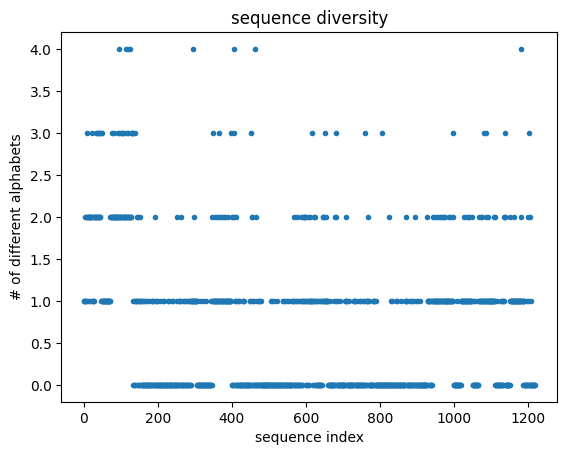
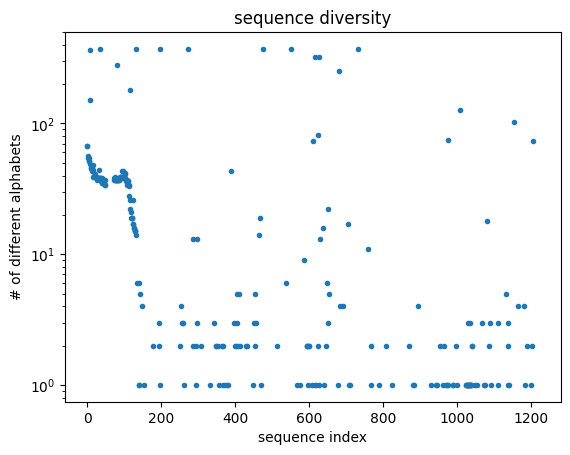
add runtime typechecker

diff --git a/spherical/utils.py b/spherical/utils.py
@@ -1,18 +1,19 @@
 import re
 import csv
 
+from beartype import beartype
 from Bio import SeqIO
 from Bio.PDB.MMCIFParser import MMCIFParser
-from Bio.PDB import Residue
+from spherical._types import Atom, Residue, Residues, Structure, Seq
 import numpy as np
 
 
-def read_fasta(fname: str):
+def read_fasta(fname: str):  # just a wrapper
     seqs = SeqIO.parse(fname, "fasta")
     return seqs
 
 
-def read_gbk(fname: str):
+def read_gbk(fname: str):  # just a wrapper
     seqs = SeqIO.parse(fname, "genbank")
     return seqs
 
@@ -39,7 +40,7 @@ def write_fasta_gbk_protein(fname: str, replace_with: str = "X"):
             f.write(">" + id + "\n" + protein + "\n")
 
 
-def remove_lowercase(text):
+def remove_lowercase(text: str) -> str:
     """Removes lowercase letters from a string.
 
     Args:
@@ -51,7 +52,7 @@ def remove_lowercase(text):
     return re.sub(r"[a-z]", "", text)
 
 
-def where_uppercase(seq: str):
+def where_uppercase(seq: Seq) -> list[int]:
     """WARNING: ChimeraX supports 1-based indexing."""
     positions = []
     for i, letter in enumerate(seq):
@@ -60,7 +61,7 @@ def where_uppercase(seq: str):
     return positions
 
 
-def where_lowercase(seq: str):
+def where_lowercase(seq: Seq) -> list[int]:
     """WARNING: ChimeraX supports 1-based indexing."""
     positions = []
     for i, letter in enumerate(seq):
@@ -69,23 +70,35 @@ def where_lowercase(seq: str):
     return positions
 
 
+def convert_indexing(indices: list[int], _from: int, _to: int) -> list[int]:
+    offset = _to - _from
+    indices = [i + offset for i in indices]
+    return indices
+
+
 def save_csv(result: list, path: str):
     with open(path, "w") as f:
         writer = csv.writer(f)
         writer.writerow(result)
 
 
-def read_cif(path: str = "data/alphafold/fold_2025_02_10_08_03_model_0.cif"):
+@beartype
+def read_cif(
+    path: str = "data/alphafold/fold_2025_02_10_08_03_model_0.cif",
+    structure_id: str = "tmp",
+) -> Structure:
     # FastMMCIFParser does not parses residues.
-    st = MMCIFParser().get_structure("tmp", path)
+    st = MMCIFParser().get_structure(structure_id, path)
     return st
 
 
-def get_first_atom(res: Residue):
+@beartype
+def get_first_atom(res: Residue) -> Atom:
     atom = next(res.get_atoms())  # `get_atoms` method returns a generator
     return atom
 
 
+@beartype
 def rr_distance(r1: Residue, r2: Residue):
     """Compute residue-residue distance. \n
 
@@ -96,7 +109,8 @@ def rr_distance(r1: Residue, r2: Residue):
     return np.linalg.norm(a1 - a2)  # Euclidean distance (3D)
 
 
-def rs_distance(r: Residue, rr, pp):
+@beartype
+def rs_distance(r: Residue, rr: Residues, pp: list[int]):
     """Compute minimum `rr_distance` for a residue and a structure."""
     distance = np.inf
     for p in pp:
@@ -105,7 +119,8 @@ def rs_distance(r: Residue, rr, pp):
     return distance
 
 
-def ss_distance(rr: list, pp1: list[int], pp2: list[int]) -> float:
+@beartype
+def ss_distance(rr: Residues, pp1: list[int], pp2: list[int]):
     """Compute minimum `rr_distance` between two structures."""
     distance = np.inf
     for p1 in pp1:
@@ -116,7 +131,10 @@ def ss_distance(rr: list, pp1: list[int], pp2: list[int]) -> float:
 
 
 # TODO performance optimization
-def _merge_if_close(rr, epitopes, thr):
+@beartype
+def _merge_if_close(
+    rr: Residues, epitopes: list[list[int]], thr: float
+) -> list[list[int]]:
     merged_epitopes = []
     while epitopes:
         pp1 = epitopes.pop(0)
@@ -132,19 +150,21 @@ def _merge_if_close(rr, epitopes, thr):
     return merged_epitopes
 
 
-def group_residues_by_distance(epi_seq: str, path_cif: str, thr: float = 4.0):
+# TODO refactor
+@beartype
+def group_residues_by_distance(
+    rr: Residues, epi_seq: Seq, thr: float = 4.0
+) -> list[list[int]]:
     positions = where_uppercase(epi_seq)
-    st = read_cif(path_cif)
-    rr = list(st.get_residues())
     epitopes = [[p] for p in positions]
     return _merge_if_close(rr, epitopes, thr)
 
 
+# TODO refactor
+@beartype
 def add_nearby_ones_to_groups(
-    path_cif: str, epi_seq: str, gg: list[list[int]], thr: float
-):
-    st = read_cif(path_cif)
-    rr = list(st.get_residues())
+    rr: Residues, epi_seq: Seq, gg: list[list[int]], thr: float
+) -> list[list[int]]:
     nonepi_positions = where_lowercase(epi_seq)
     gg_len = len(gg)
     gg_new = []

diff --git a/examples/group_residues_by_distance.py b/examples/group_residues_by_distance.py
@@ -2,20 +2,22 @@ import spherical.utils as spu
 
 
 def main(thr: float = 8.0):
-    fasta = spu.read_fasta("../data/result/Bcell_epitope_preds.fasta")
-    epi_seq = next(fasta).seq
+    epi_fasta = spu.read_fasta("../data/result/Bcell_epitope_preds.fasta")
+    epi_seq = next(epi_fasta).seq
     path_cif = "../data/alphafold/fold_2025_02_10_08_03_model_0.cif"
-    epi_groups = spu.group_residues_by_distance(epi_seq, path_cif=path_cif, thr=thr)
+    st = spu.read_cif(path_cif)
+    rr = list(st.get_residues())
+    epi_groups = spu.group_residues_by_distance(rr, epi_seq, thr=thr)
     print("epitope groups")
     print(epi_groups)
 
     # TODO what would be the best cutoff for nearby residue?
-    groups = spu.add_nearby_ones_to_groups(path_cif, epi_seq, epi_groups, thr=thr / 2.2)
+    groups = spu.add_nearby_ones_to_groups(rr, epi_seq, epi_groups, thr=thr / 2.2)
     print("\n epitope regions")
     print(groups)
 
     groups_flat = [index for group in groups for index in group]
-    print(f"How many residues: {len(set(groups_flat))}")
+    print(f"How many involved residues are: {len(set(groups_flat))}")
 
 
 if __name__ == "__main__":

diff --git a/tests/test_utils.py b/tests/test_utils.py
@@ -4,13 +4,22 @@ import pandas as pd
 
 class TestSequences:
     seq = "abcdEFGH"
-    pp = spu.where_uppercase(seq)
+    pp0 = spu.where_uppercase(seq)
+    pp1 = [5, 6, 7, 8]
 
-    def test_sequence(self):
-        assert self.pp == [5, 6, 7, 8]
+    def test_upper_and_lower(self):
+        assert self.pp0 == [4, 5, 6, 7]
+        assert spu.where_lowercase(self.seq) == [0, 1, 2, 3]
+
+    def test_indexing_conversion(self):
+        assert spu.convert_indexing(self.pp0, 0, 1) == self.pp1
+        assert spu.convert_indexing(self.pp1, 1, 0) == self.pp0
+
+    def test_remove_lowercases(self):
+        assert spu.remove_lowercase(self.seq) == "EFGH"
 
     def test_save_routine(self, tmp_path):
         path = f"{tmp_path}/tmp.csv"
-        spu.save_csv(self.pp, path)  # save result
+        spu.save_csv(self.pp0, path)  # save result
         ppp = pd.read_csv(path, header=None)
-        assert self.pp == ppp.values.squeeze().tolist()
+        assert self.pp0 == ppp.values.squeeze().tolist()

diff --git a/spherical/_types.py b/spherical/_types.py
@@ -1,0 +1,8 @@
+from Bio.PDB.Atom import Atom
+from Bio.PDB.Residue import Residue
+from Bio.PDB.Structure import Structure
+from Bio.Seq import Seq  # noqa
+
+Atoms = list[Atom]
+Residues = list[Residue]
+Structures = list[Structure]

diff --git a/spherical/__init__.py b/spherical/__init__.py
@@ -1,0 +1,3 @@
+from beartype.claw import beartype_this_package  # <-- boilerplate for victory
+
+beartype_this_package()
